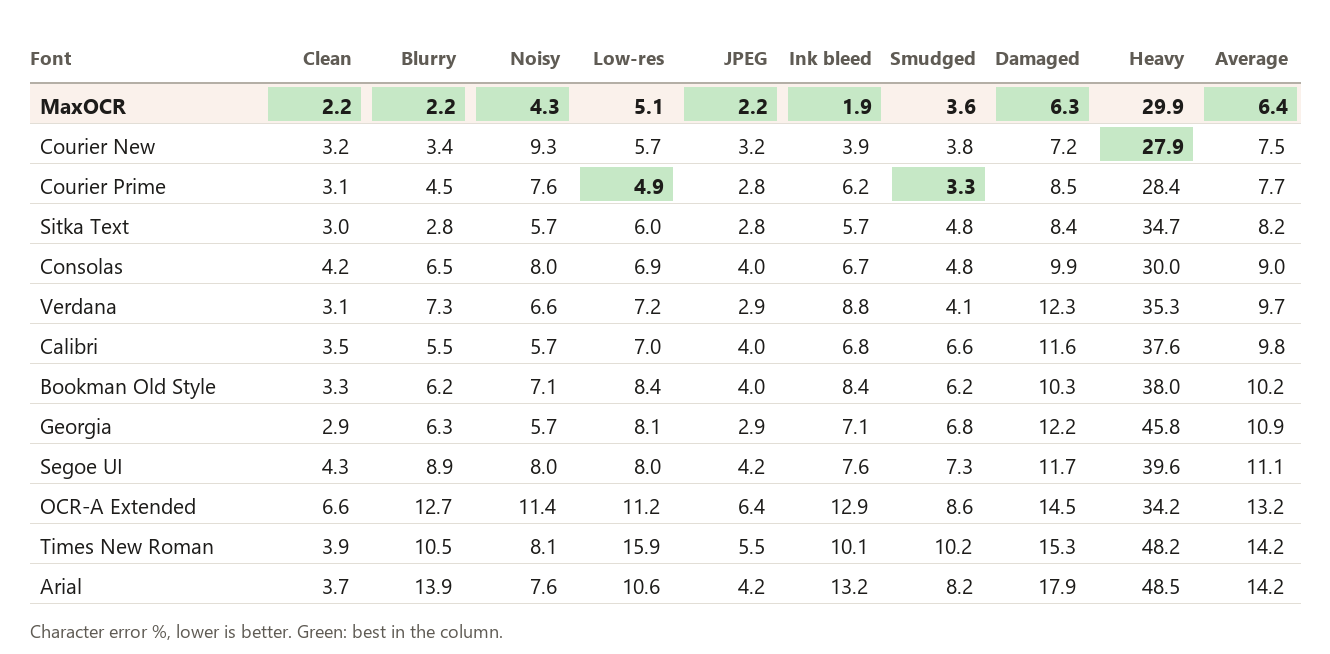
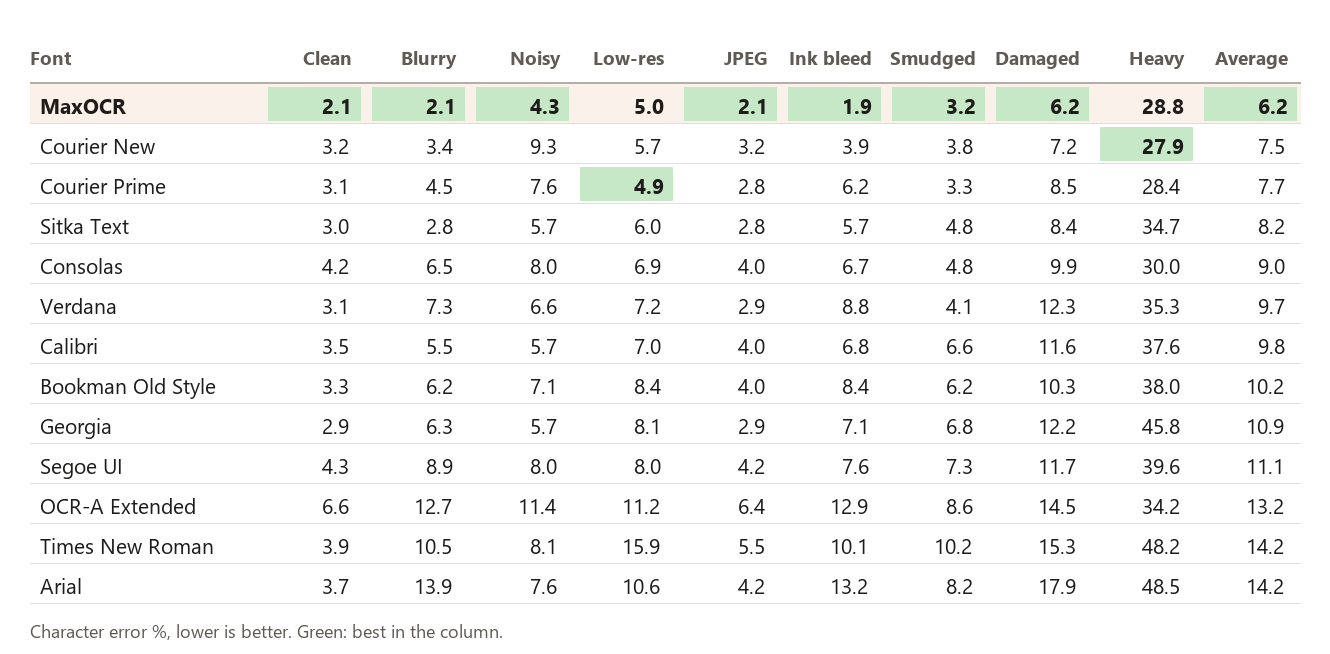
README numbers for v0.97: 7.1 overall, smudged paragraphs now best

diff --git a/README.md b/README.md
@@ -26,7 +26,7 @@ crisp to badly damaged. Lower is better.
 
 ![Average character error by font and kind of text](docs/table_summary.png)
 
-Across all three kinds of text, MaxOCR makes **22% fewer errors than the next best font** (Courier New) and **about
+Across all three kinds of text, MaxOCR makes **23% fewer errors than the next best font** (Courier New) and **about
 half as many as Arial or Times New Roman**. The gap is largest on **numbers**: 3.8% against 6.5% for the next best
 font.
 
@@ -111,20 +111,20 @@ number means that font made fewer errors than MaxOCR.
 
 | Text | Clean | Blurry | Noisy | Low-res | JPEG | Ink bleed | Smudged | Damaged | Heavy |
 |---|---:|---:|---:|---:|---:|---:|---:|---:|---:|
-| Paragraphs | 24% | 20% | 23% | −3% | 20% | 50% | −12% | 11% | −7% |
-| Codes | 16% | 27% | −3% | −1% | 20% | 38% | 24% | 20% | 3% |
+| Paragraphs | 28% | 22% | 24% | −1% | 25% | 51% | 2% | 13% | −3% |
+| Codes | 16% | 26% | −3% | −2% | 22% | 38% | 25% | 20% | 3% |
 | Numbers | 34% | 45% | 29% | 38% | 29% | 41% | 51% | 39% | 20% |
 
-- **Clean print.** MaxOCR makes 24% fewer errors than the best other font on paragraphs (Georgia), 16% fewer on codes
+- **Clean print.** MaxOCR makes 28% fewer errors than the best other font on paragraphs (Georgia), 16% fewer on codes
   (Bookman Old Style) and 34% fewer on numbers (Courier Prime). Against the everyday fonts it's 34–68% fewer than the
   average of Arial, Times New Roman and Calibri.
 - **Numbers.** MaxOCR leads in all nine conditions, with 20–51% fewer errors than the best other font.
-- **Damage.** The largest leads are under ink bleed (38–50%) and on blurry and smudged codes and numbers.
+- **Damage.** The largest leads are under ink bleed (38–51%) and on blurry and smudged codes and numbers.
 - **Where another font is ahead.**
-  - Paragraphs: Courier Prime on low-res and smudged print, and Courier New on heavy damage.
+  - Paragraphs: Courier Prime on low-res print, and Courier New on heavy damage.
   - Codes: Bookman Old Style on noisy print, and Courier Prime on low-res print.
-  - Apart from smudged paragraphs (12%), these gaps are small (1–7%).
-- **Engine agreement.** In 19 of the 27 cells, all four engines agree that MaxOCR does at least as well as the best
+  - All four gaps are small (1–3%).
+- **Engine agreement.** In 20 of the 27 cells, all four engines agree that MaxOCR does at least as well as the best
   other font. That includes every cell for numbers.
 - **OCR-A Extended**, the font designed for 1960s optical readers, does worst overall with today's engines.
 

diff --git a/DECISIONS.md b/DECISIONS.md
@@ -981,3 +981,4 @@ n test (`n_eval.csv`, Text fonts with the new e), paragraphs clean / low-res / s
 ### v0.97 adopted (2026-10-13)
 
 James: yes. Exported as version 0.97 (`scratch/export_v097.sh`; v0.96 in `out/fonts/intermediate/*-v096.ttf`): v0.96 + e with a 70-unit crossbar and clean top and eye + lighter n (stems 10 units thinner each side) (`~/maxocr-work/keep/MaxOCR-Text-v097.ttf`). README benchmark rows for MaxOCR re-measured (v0.96 rows kept in `out/report/readme_bench_maxocr_v096.csv`); README pictures refreshed.
+README benchmark, v0.97 (`readme_bench.csv`, `docs/benchmark_summary.csv`), paragraphs / codes / numbers / all: MaxOCR 6.20 / 11.29 / 3.82 / 7.10 (v0.96: 6.4 / 11.3 / 3.8 / 7.2); Courier New 9.25 overall (23% more errors). Smudged paragraphs now best (3.21 vs Courier Prime 3.27). Still behind, all by 1-3%: low-res paragraphs (Courier Prime 4.92 vs 4.95; the e alone gave 4.56, the lighter n gave part back), heavy paragraphs (Courier New 27.89 vs 28.79), noisy codes (Bookman Old Style 9.70 vs 9.98), low-res codes (Courier Prime 15.11 vs 15.39). Engine agreement: 20 of 27 cells. Run-together letters re-test on v0.97 (the n changed) running (`merge_lower_v097.csv`, `merge_caps_v097.csv`).
